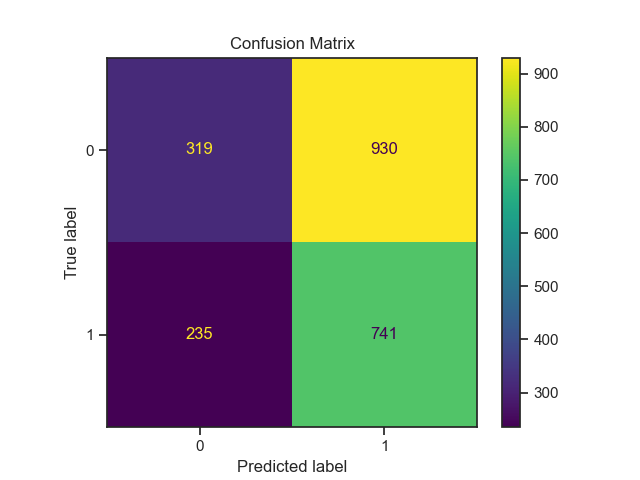
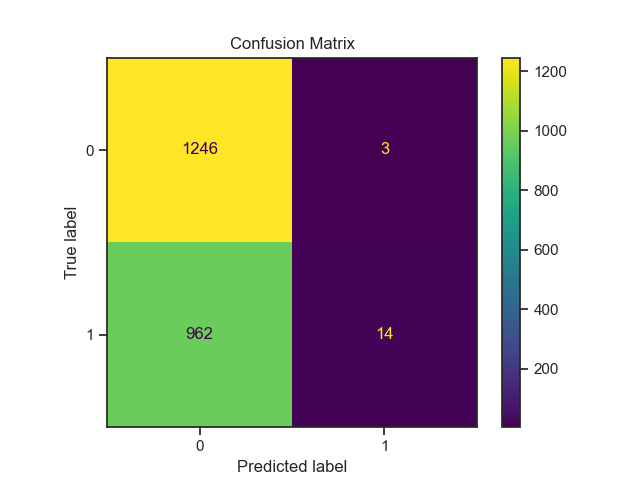
Refactored code for improved structure and consistency

diff --git a/Classification/Classification.py b/Classification/Classification.py
@@ -9,7 +9,7 @@ from Classification.DecisionTree.DecisionTree import decision_tree_training_mode
 from Classification.DecisionTree.ExploratoryDataAnalysis import correlation_matrix, pair_plot, box_plot, plot_density, \
     plot_time_series, scatter_plot_matrix
 from Classification.SVM.ExploratoryDataAnalysis import correlation_matrix_plot, feature_distribution_plot, \
-    model_performance_plot, confustion_matrix_plot
+    model_performance_plot, confusion_matrix_plot
 from Classification.SVM.SVM import svm_training_model
 
 
@@ -112,8 +112,8 @@ def classification():
         #Now that we have explored the data and visualized the relationships between different attributes,
         # we can proceed to train the Decision Tree Classifier.
         # Call the decision tree training model function
-        clf = decision_tree_training_model(X_train, y_train, X_test, y_test)
-        predictions = clf.predict(X_test)
+        dt_clf = decision_tree_training_model(X_train, y_train, X_test, y_test)
+        predictions = dt_clf.predict(X_test)
         # Calculate & print the accuracy of the model
         print("Accuracy score: ", accuracy_score(y_test, predictions))
         training_time_decision_tree = time.time() - start_time
@@ -132,11 +132,15 @@ def classification():
         correlation_matrix_plot(data)
         print("\n Correlation matrix plotted successfully.")
 
-        #Now that we have explored the data and visualized the relationships between different attributes,
-        # we can proceed to train the Decision Tree Classifier.
-        # Call the decision tree training model function
         start_time_svm = time.time()
-        clf, X_test, y_test = svm_training_model(data)
+        # clf, X_test, y_test = svm_training_model(data)
+        svm_clf = svm_training_model( X_train, y_train, X_test, y_test)
+
+        predictions = svm_clf.predict(X_test)
+        accuracy = accuracy_score(y_test, predictions)
+
+        print("Accuracy score: ", accuracy)
+
         training_time_svm = time.time() - start_time_svm
         print(f"SVM - Training Time: {training_time_svm:.4f} seconds")
 
@@ -144,11 +148,11 @@ def classification():
 
         # After training the SVM classifier, we visualize its performance
         # First, we plot the overall accuracy
-        model_performance_plot(clf, X_test, y_test)
+        model_performance_plot(svm_clf, X_test, y_test)
         print("\n Model performance plot plotted successfully.")
 
         # Then, we plot the confusion matrix to analyze classification results in more detail
-        confustion_matrix_plot(clf, X_test, y_test)
+        confusion_matrix_plot(svm_clf, X_test, y_test)
         print("\n Confusion matrix plot plotted successfully.")
 
     except Exception as e:

diff --git a/Classification/SVM/SVM.py b/Classification/SVM/SVM.py
@@ -8,27 +8,11 @@ from sklearn.svm import SVC
 
 
 
-# Training the SVM model
-def svm_training_model(data):
-    X = data[['year', 'num_pages', 'ratings_count', 'text_reviews_count']]
-    y = data['high_rating']
+from sklearn.svm import SVC
 
-    X_train, X_test, y_train, y_test = train_test_split(X, y, test_size=0.2, random_state=42)
-
-    # Create a SVM classifier
+def svm_training_model(X_train, y_train, X_test, y_test):
     clf = SVC(kernel='linear', random_state=42)
-
-    # Fit the model to the training data
     clf.fit(X_train, y_train)
-
-    # Make predictions on the test data
-    prediction = clf.predict(X_test)
-
-
-    # Calculate and print the accuracy of the model
-    accuracy = clf.score(X_test, y_test)
-    print("Accuracy score: ", accuracy)
-
-    return clf, X_test, y_test
+    return clf
 
 

diff --git a/Classification/SVM/ExploratoryDataAnalysis.py b/Classification/SVM/ExploratoryDataAnalysis.py
@@ -32,7 +32,7 @@ def model_performance_plot(model, X_test, y_test):
     plt.show()
 
 #Confusion matrix Plot
-def confustion_matrix_plot(model, X_test, y_test):
+def confusion_matrix_plot(model, X_test, y_test):
     y_pred = model.predict(X_test)
     cm = confusion_matrix(y_test, y_pred)
     disp = ConfusionMatrixDisplay(confusion_matrix=cm)
